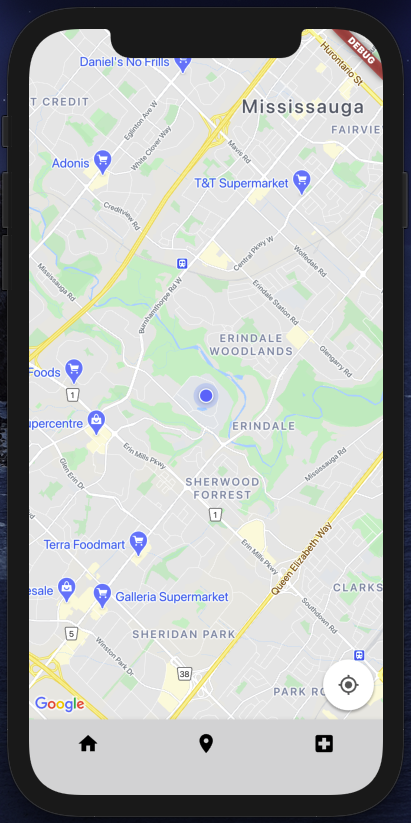
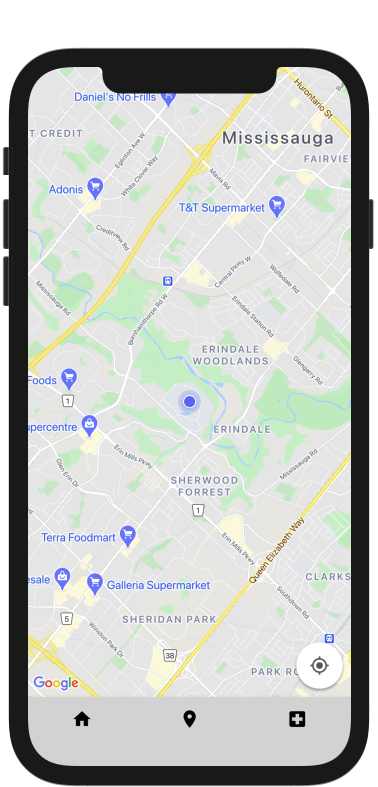
update deck

diff --git a/lib/main.dart b/lib/main.dart
@@ -16,6 +16,7 @@ class MyApp extends StatelessWidget {
   @override
   Widget build(BuildContext context) {
     return MaterialApp(
+        debugShowCheckedModeBanner: false,
         title: 'COVID Alert',
         theme: ThemeData(
           primarySwatch: Colors.blueGrey,
